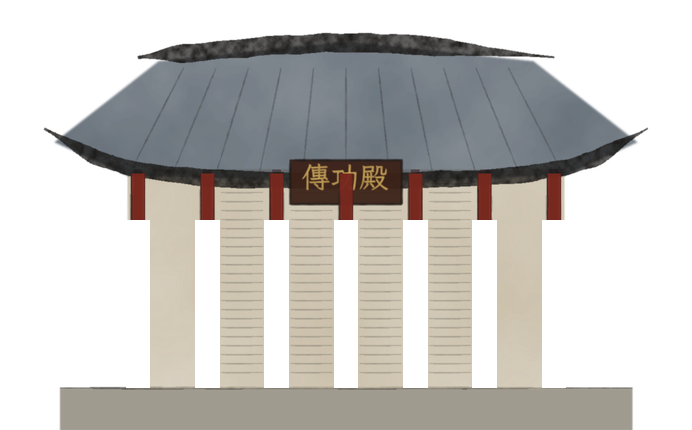
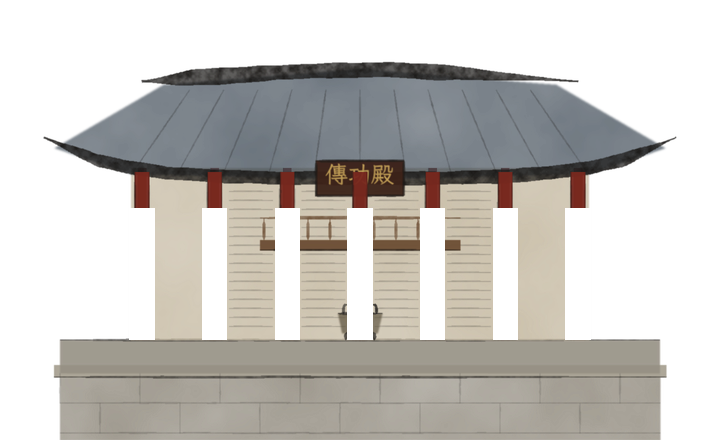
修傳功殿穿模：殿蓋在台基上、h100/h200 平台就是台基頂與殿內迴廊；宗門不再垂假殿柱 (#61)
Kc：傳功殿穿模。原因是區塊的兩層平台橫穿殿牆與柱子、站上去像嵌在牆裡，另外宗門的垂掛前景殿柱
從殿中間穿過。改成石砌台基＋殿基剛好 100 高（站上去就是站在殿基頂、在簷柱後面），h200 畫成殿內迴廊，
屋面平台降到 280（從迴廊跳得上去）；宗門地圖不再放垂掛殿柱。

Claude-Session: https://claude.ai/code/session_01Pys4jZiBdfTibS8DynZjZp

diff --git a/tools/inkpaint/landmarks.py b/tools/inkpaint/landmarks.py
@@ -76,6 +76,48 @@ def hall(lid, text, w=520, h=420, wall=(196, 184, 160), pillar=(120, 40, 30), ro
     return cv, front, platforms
 
 
+def terrace_hall(lid, text, w=545, h=330, terrace=100, tw=600, balcony=(-100, 100, 200)):
+    """建在台基上的大殿（傳功殿）：區塊裡 h100 的長平台就是台基頂、h200 的短平台是殿內迴廊，
+    人站上去是站在台基、迴廊上，不會嵌在牆裡。簷柱從台基頂立起、在角色前面；屋面可以站。"""
+    cv = _canvas(lid, max(tw, w * 1.1), terrace + h + 10)
+    gy, cx = cv.h, cv.w / 2
+    # 下段石砌台基＋S.hall 自帶的殿基（0.1h）疊起來剛好 terrace 高：人站在 h100 平台就是站在殿基頂上
+    ty = gy - (terrace - h * 0.1)
+    stone = (150, 144, 132)
+    # 台基：石砌，頂上一道壓沿，正面石縫
+    cv.paint(cv.textured(cv.rect(cx - tw / 2, ty, cx + tw / 2, gy, blur=0.6), 0.35, "cloud"), stone, 0.97)
+    cv.paint(cv.rect(cx - tw / 2 - 6, ty - 8, cx + tw / 2 + 6, ty + 4, blur=0.4), (170, 164, 150), 0.97)
+    cv.stroke([(cx - tw / 2 - 6, ty + 4), (cx + tw / 2 + 6, ty + 4)], 2, INK, 0.7, smooth=0)
+    for yy in np.arange(ty + 30, gy - 4, 30):
+        cv.stroke([(cx - tw / 2, yy), (cx + tw / 2, yy)], 1, INK, 0.25, smooth=0)
+        off = 0 if int((yy - ty) / 30) % 2 else 40
+        for xx in np.arange(cx - tw / 2 + off, cx + tw / 2, 80):
+            cv.stroke([(xx, yy - 30), (xx, yy)], 1, INK, 0.2, smooth=0)
+    S.hall(cv, cx, ty, w, h, roof_c=(56, 68, 80), text=text)
+    base_h, top = h * 0.1, ty - h * 0.62     # 殿基頂（柱腳）= gy - terrace
+    # 殿內迴廊（平座）：木板加欄杆
+    b0, b1, bh = cx + balcony[0], cx + balcony[1], gy - balcony[2]
+    wood = (110, 80, 54)
+    cv.paint(cv.rect(b0, bh, b1, bh + 10, blur=0.4), wood, 0.97)
+    cv.stroke([(b0, bh + 10), (b1, bh + 10)], 1.6, INK, 0.7, smooth=0)
+    for xx in np.arange(b0 + 4, b1, 22):
+        cv.stroke([(xx, bh), (xx, bh - 22)], 2.2, wood, 0.95, smooth=0)
+    cv.stroke([(b0, bh - 22), (b1, bh - 22)], 3, wood, 0.95, smooth=0)
+    S.cauldron(cv, cx, gy - terrace, 22)
+    front = []
+    pw = max(6.0, w * 0.013)
+    for k in range(7):
+        px = cx - w * 0.4 + w * 0.8 * k / 6
+        cv.paint(cv.rect(px - pw, top + 4, px + pw, ty - base_h), (120, 40, 30), 0.95)
+        cv.stroke([(px - pw, top + 4), (px - pw, ty - base_h)], 1.6, INK, 0.6, smooth=0)
+        cv.stroke([(px + pw, top + 4), (px + pw, ty - base_h)], 1.2, INK, 0.35, smooth=0)
+        cv.paint(cv.rect(px - pw - 4, ty - base_h - 10, px + pw + 4, ty - base_h), (140, 132, 120), 0.95)
+        front.append((px - pw - 5, top + h * 0.12, px + pw + 5, ty - base_h))
+    # 屋面下段：從迴廊（h200）跳得上去
+    platforms = [{"dx": round(-w * 0.26), "h": round(terrace - base_h + h * 0.62 + 8), "w": round(w * 0.52)}]
+    return cv, front, platforms
+
+
 def house(lid, w, h, lantern=False):
     """村屋：整棟在角色後面（人從門前走過）。"""
     cv = _canvas(lid, w * 1.2, h + 10)
@@ -86,7 +128,8 @@ def house(lid, w, h, lantern=False):
 # 區塊 -> [(地標 id, 區塊內 x, 畫法)]；區塊底圖（chunks.py）不再畫這些
 LANDMARKS = {
     "chunk.sect_gate": [("sect_gate.paifang", 560, lambda lid: paifang(lid, "青雲"))],
-    "chunk.sect_hall": [("sect_hall.hall", 450, lambda lid: hall(lid, "傳功殿"))],
+    # 台基寬 600 對齊區塊的 h100 平台（x150～750）、迴廊對齊 h200 平台（x350～550）
+    "chunk.sect_hall": [("sect_hall.hall", 450, lambda lid: terrace_hall(lid, "傳功殿"))],
     # 山神廟正好壓在原本 h220 的平台下面：廟脊就是那塊平台，不另加
     "chunk.ruined_shrine": [("ruined_shrine.hall", 500, lambda lid: hall(lid, "山神", 280, 240, wall=(170, 160, 140), pillar=(110, 70, 50),
                                                                        roof_c=(60, 58, 52), stand=False))],

diff --git a/tools/inkpaint/chunks.py b/tools/inkpaint/chunks.py
@@ -217,8 +217,7 @@ def sect_plaza(cid, w, name):
 def sect_hall(cid, w, name):
     cv = base(cid, w, "sect")
     _mist(cv, 590, 60, (234, 230, 214), 0.6)
-    # 傳功殿是場景物件（landmarks.py）；殿前香爐留在底圖
-    S.cauldron(cv, w * 0.5, 600, 28)
+    # 傳功殿（連台基、迴廊、香爐）是場景物件（landmarks.py）
     return finish(cv, name, "sect")
 
 
